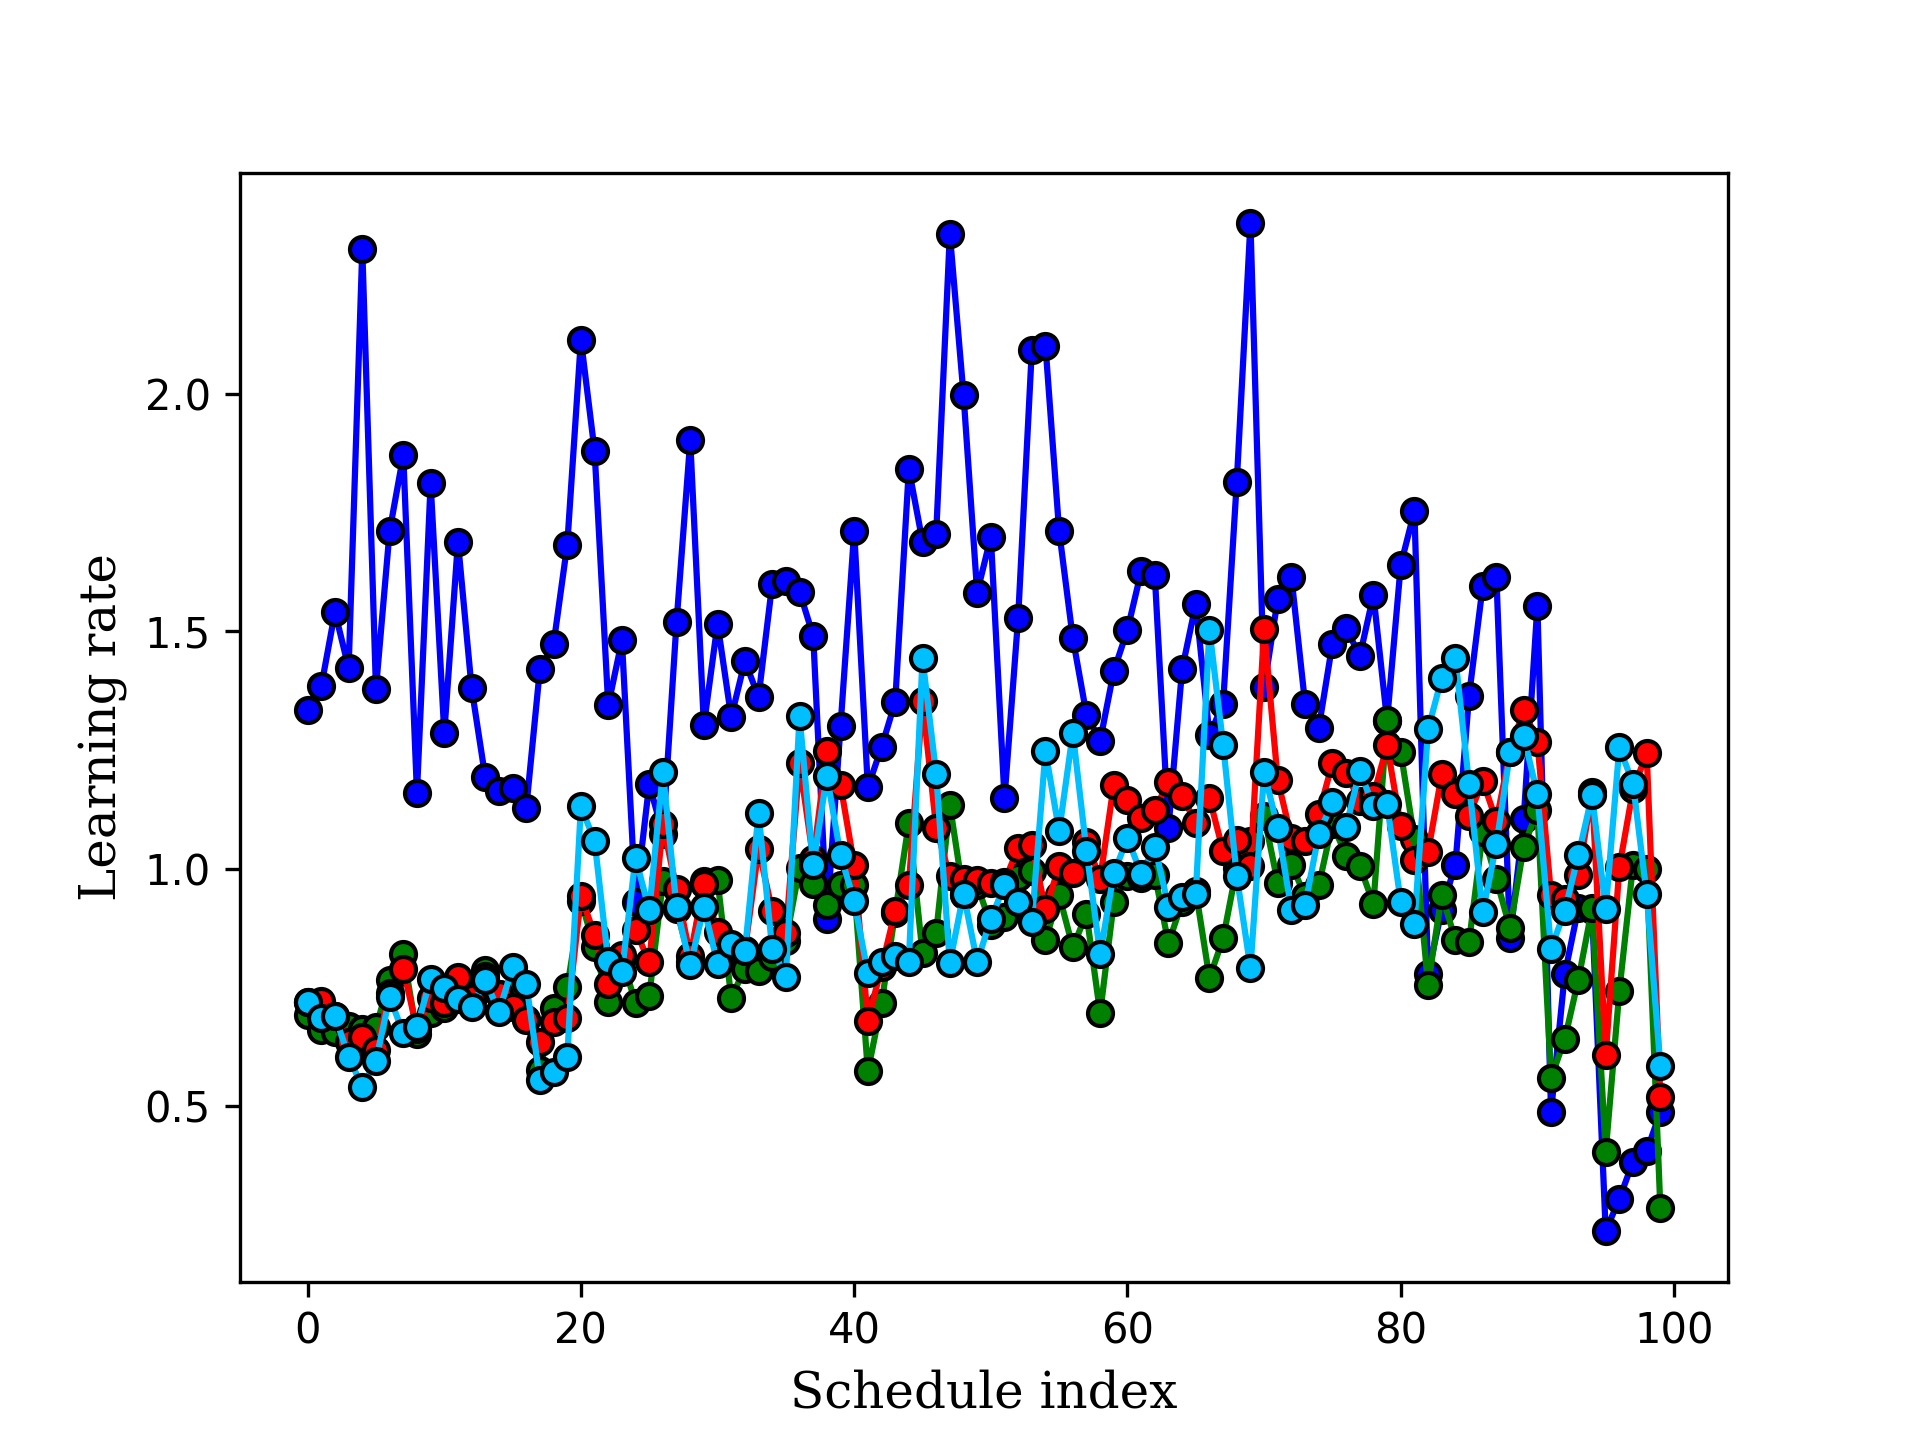
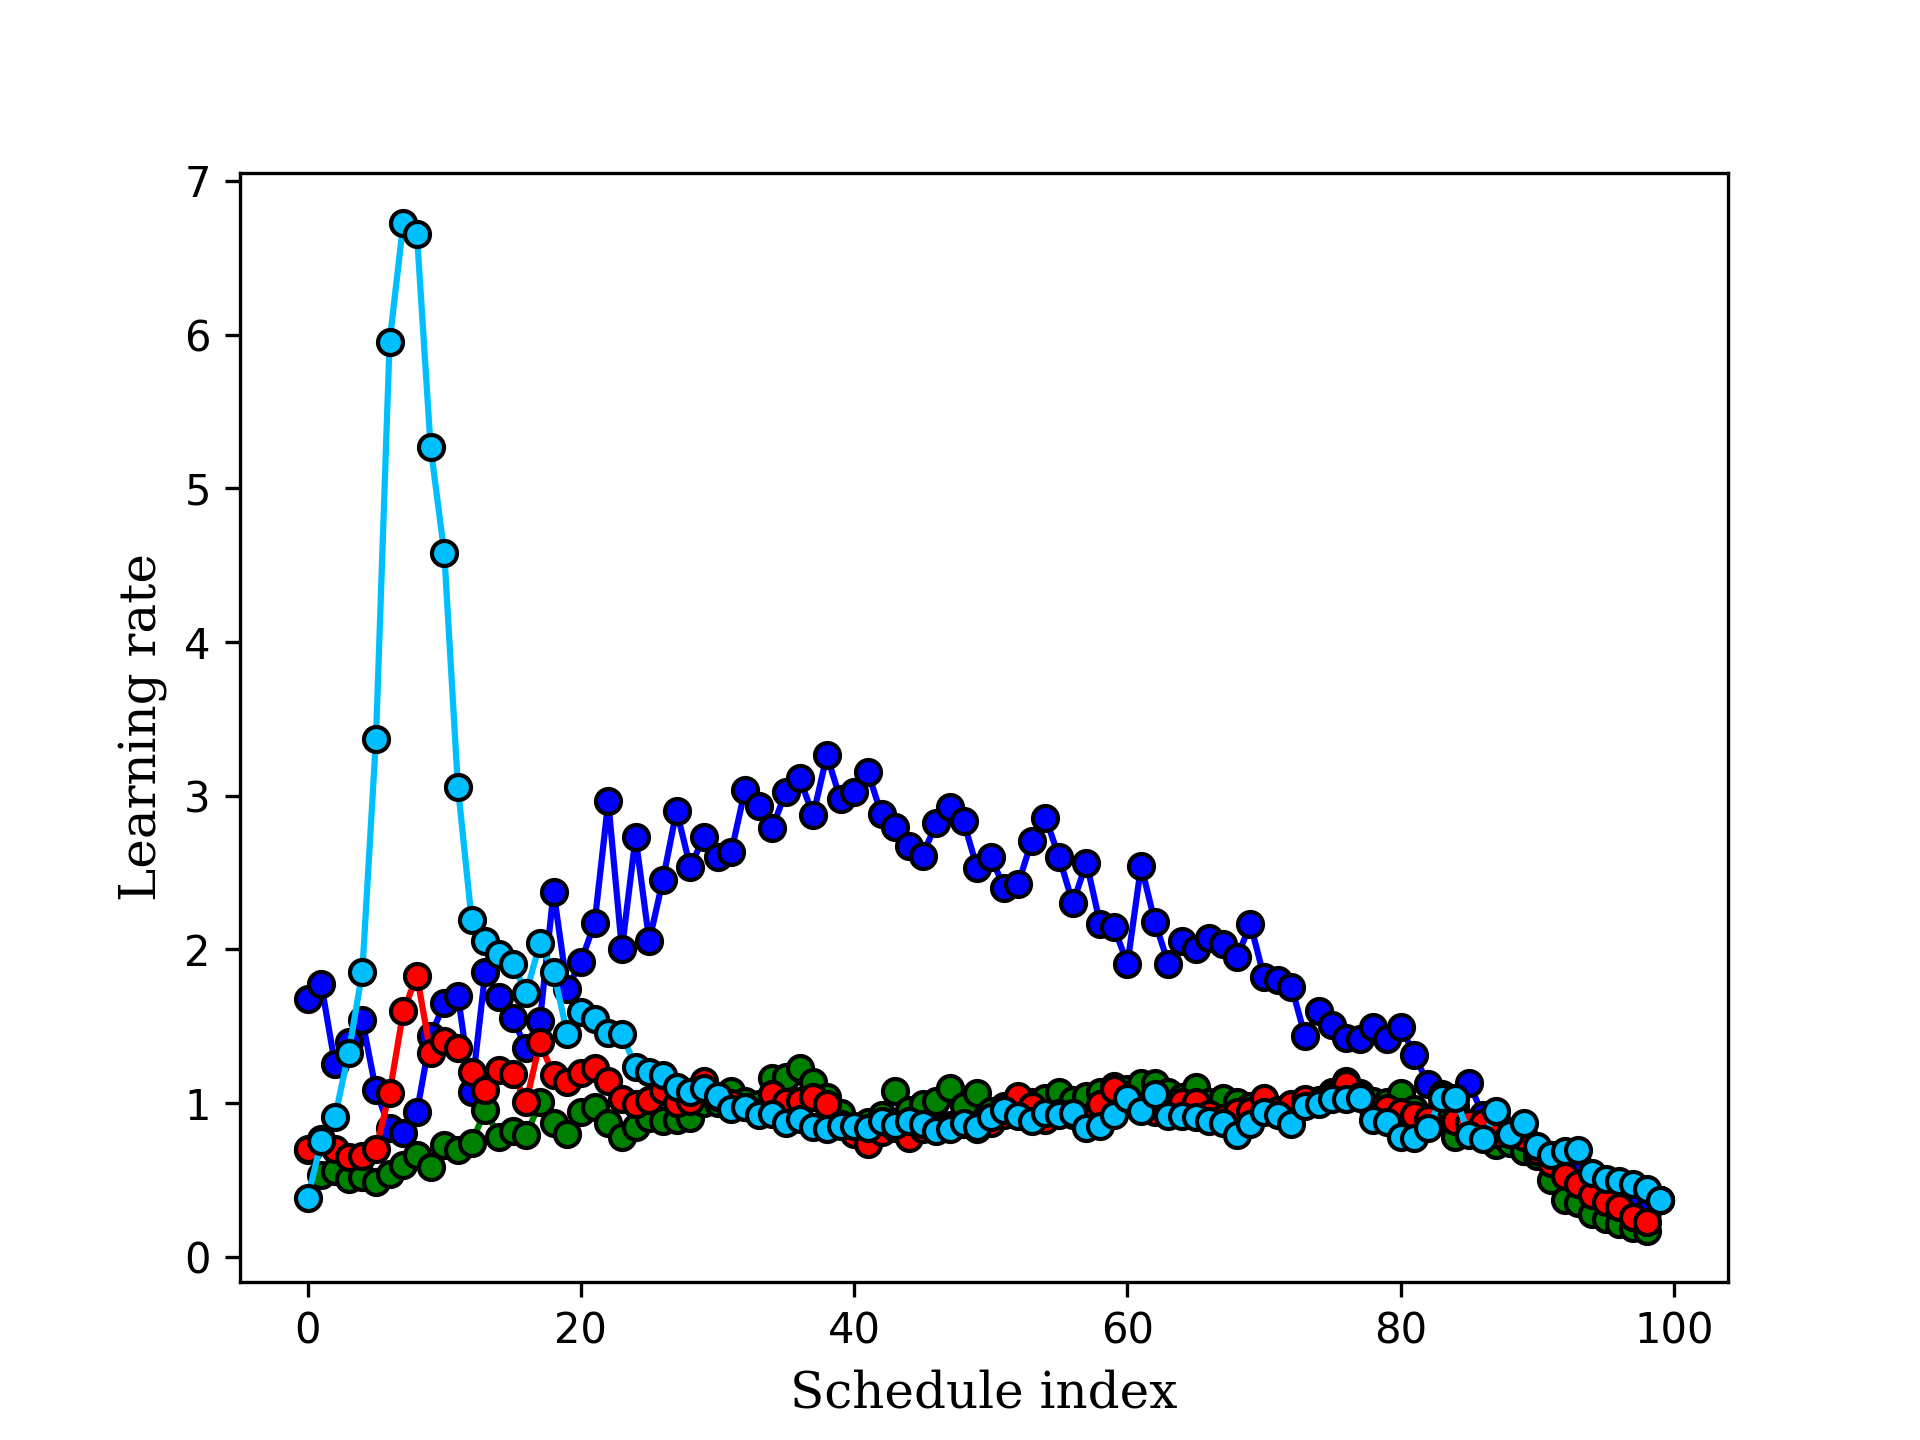
updated checkpointing hypergrad

diff --git a/learning_rate_cp.py b/learning_rate_cp.py
@@ -22,7 +22,7 @@ def d_logit(x):
 
 layer_sizes = [784, 50, 50, 50, 10]
 batch_size = 200
-nSteps = 10
+nSteps = 100
 N_classes = 10
 N_train = 10000
 N_valid = 10000
@@ -36,7 +36,7 @@ init_log_param_scale = -3.0
 
 # ----- Superparameters -----
 meta_alpha = 0.04
-N_meta_iter = 5
+N_meta_iter = 50
 
 seed = 0
 train_data, valid_data, tests_data = load_data_dicts(N_train, N_valid, N_tests)
@@ -85,7 +85,7 @@ def hyper_grad_lr(hyperparam_vec, i_hyper):
     w_0      *= rs.randn(w_0.size)
     v_0       = np.zeros_like(w_0)
     L2_reg    = fill_parser(parser, np.exp(fixed_hyperparams['log_L2_reg']))
-    
+
     def indexed_loss_fun(w, i_iter):
         rs = RandomState((seed, i_hyper, i_iter))  # Deterministic seed needed for backwards pass.
         idxs = rs.randint(N_train, size=batch_size)
@@ -102,52 +102,70 @@ def hyper_grad_lr(hyperparam_vec, i_hyper):
     iters     = list(zip(range(len(alphas)), alphas, gammas))
     L_grad    = grad(loss)
     f_grad    = grad(f)
-    
+
     w, v      = np.copy(w_0), np.copy(v_0)
 
     def forward(check:int, nfrom: int, nto: int):
 
-        w = stack[check]['weights']
-        v = stack[check]['velocity']
-
+        w = np.copy(stack[check]['weights'])
+        v = np.copy(stack[check]['velocity'])
+        #print(f'valore di v che viene caricato dal ckp {check} prima di forward {nfrom} --> {nto-1}')
+        #print(v[0:4])
         for i, alpha, gamma in iters[nfrom:nto]:
-            
+
             g = L_grad(w, i)
             cur_alpha_vect = fill_parser(parser, alpha)
             cur_gamma_vect = fill_parser(parser, gamma)
-    
+
+
             v *= cur_gamma_vect
             v -= (1 - cur_gamma_vect) * g
             w += cur_alpha_vect * v
+            #print(f'v al forward step {i}')
+            #print(v[0:4])
+
 
         return w, v
 
     def reverse(iteration, w, v, d_w, d_v, d_alpha, d_gamma):
         '''
         This function does only one step of RMD
+        riceve w e v ma non deve invertirli tramite gamma, poi fa un passo di forward
+        per aggiornare v e poterlo mettere in d_alpha 
+        w e v che servono a questa funzione sono quelli che RMD calcola invertendo il gradiente in maniera
+        esatta.
         '''
         proj = lambda w, d, i : np.dot(L_grad(w,i),d)
         hessianvp = grad(proj, 0)
         i, alpha, gamma = iters[iteration]
 
         print(f'backprop step {i}')
+        #print(f'v al backprop step {i}')
+        #print(v[0:4])
+        
+        
         cur_alpha_vect = fill_parser(parser, alpha)
         cur_gamma_vect = fill_parser(parser, gamma)
-        for j, (_, (ixs, _)) in enumerate(parser.idxs_and_shapes.items()):
-            d_alpha[i,j] = np.dot(d_w[ixs], v[ixs])
         
-        #gradient descent reversion
-        w -= cur_alpha_vect * v
         g  = L_grad(w, i)
-        v += (1-cur_gamma_vect)*g
-        v /= cur_gamma_vect
+        v_next = np.copy(v)
+        v_next *= cur_gamma_vect
+        v_next -= (1 - cur_gamma_vect) * g
 
+        #print(f'valore ricostruito di v al tempo {i+1}')
+        #print(v_next[0:4])
+
+        for j, (_, (ixs, _)) in enumerate(parser.idxs_and_shapes.items()):
+            d_alpha[i,j] = np.dot(d_w[ixs], v_next[ixs])
+
+        ##Questi tre passaggi non devono essere fatti e i valori vanno ottenuti tramite checkpoint
+        
         d_v += d_w * cur_alpha_vect
-        
-        
+
+
         for j, (_, (ixs, _)) in enumerate(parser.idxs_and_shapes.items()):
                 d_gamma[i,j] = np.dot(d_v[ixs], v[ixs] + g[ixs])
-        
+
         d_w -= hessianvp(w, (1-cur_gamma_vect)*d_v, i)
         d_v *= cur_gamma_vect
 
@@ -164,6 +182,8 @@ def hyper_grad_lr(hyperparam_vec, i_hyper):
             #print(scheduler.check)
             stack[scheduler.check]['weights']  = np.copy(w)
             stack[scheduler.check]['velocity'] = np.copy(v)
+            
+            #print(v[0:4])
         elif action == ActionType.firsturn:
             print('executing first reverse step')
             wF, vF = forward(scheduler.check, scheduler.oldcapo, nSteps)
@@ -173,20 +193,51 @@ def hyper_grad_lr(hyperparam_vec, i_hyper):
             d_alpha, d_gamma = np.zeros(alphas.shape), np.zeros(gammas.shape)
             d_w = f_grad(wF)
             d_v = np.zeros(d_w.shape)
-            #first step
-            d_w, d_v, d_alpha, d_gamma = reverse(nSteps-1, wF, vF, d_w, d_v, d_alpha, d_gamma)
+            
         elif action == ActionType.restore:
             #print(f'loading state number {scheduler.check}')
-            w, v = stack[scheduler.check]['weights'], stack[scheduler.check]['velocity']
+            w, v = np.copy(stack[scheduler.check]['weights']), np.copy(stack[scheduler.check]['velocity'])
+            #print('valore di v che viene richiamato con restore')
+            #print(v[0:4])
         elif action == ActionType.youturn:
             #print(f' doing reverse step at time {scheduler.fine}')
             d_w, d_v, d_alpha, d_gamma = reverse(scheduler.fine, w, v, d_w, d_v, d_alpha, d_gamma)
         if action == ActionType.terminate:
             break
-    
-    print(w_0)
-    print(stack)
-    assert np.all(w_0 == w)
+
+
+    #while(True):
+    #    action = scheduler.revolve()
+    #    print(action)
+    #    if action == ActionType.advance:
+    #        #print(f'advance the system from {scheduler.oldcapo} to {scheduler.capo}')
+    #        w, v = forward(scheduler.check, scheduler.oldcapo, scheduler.capo)
+    #    elif action == ActionType.takeshot:
+    #        #print('saving current state')
+    #        #print(scheduler.check)
+    #        stack[scheduler.check]['weights']  = np.copy(w)
+    #        stack[scheduler.check]['velocity'] = np.copy(v)
+    #    elif action == ActionType.firsturn:
+    #        print('executing first reverse step')
+    #        wF, vF = forward(scheduler.check, scheduler.oldcapo, nSteps)
+    #        final_loss = f(wF)
+    #        loss_final.append(final_loss)
+    #        #initialise gradient values
+    #        d_alpha, d_gamma = np.zeros(alphas.shape), np.zeros(gammas.shape)
+    #        d_w = f_grad(wF)
+    #        d_v = np.zeros(d_w.shape)
+    #        #first step
+    #        #d_w, d_v, d_alpha, d_gamma = reverse(nSteps-1, wF, vF, d_w, d_v, d_alpha, d_gamma)
+    #    elif action == ActionType.restore:
+    #        #print(f'loading state number {scheduler.check}')
+    #        w, v = stack[scheduler.check]['weights'], stack[scheduler.check]['velocity']
+    #    elif action == ActionType.youturn:
+    #        #print(f' doing reverse step at time {scheduler.fine}')
+    #        d_w, d_v, d_alpha, d_gamma = reverse(scheduler.fine, w, v, d_w, d_v, d_alpha, d_gamma)
+    #    if action == ActionType.terminate:
+    #        break
+
+    #assert np.all(w_0 == w)
     weights_grad = parser.new_vect(w_0 * d_w)
     hypergrads['log_param_scale'] = [np.sum(weights_grad[name])
                                      for name in weights_grad.names]
@@ -197,8 +248,10 @@ def hyper_grad_lr(hyperparam_vec, i_hyper):
 
 
 
+
 final_result = hyper_adam(hyper_grad_lr, hyperparams.vect, N_meta_iter, meta_alpha)
 final_hyper  = hyperparams.new_vect(final_result)
+
 
 learning_path  = '/home/marco/Documenti/Progetto_DL/results_learning_rate/learning_schedule_cp.png'
 
@@ -216,8 +269,6 @@ plt.ylabel('Learning rate', fontdict={'family': 'serif', 'size': 12})
 plt.savefig(learning_path, dpi=300)
 plt.close()
 
-print(final_hyper['log_alphas'])
-
 
 folder_path = '/home/marco/Documenti/Progetto_DL/results_learning_rate'
 meta_learning_curve = os.path.join(folder_path, "meta_learning_cp.png")
@@ -228,98 +279,6 @@ plt.ylabel('loss', fontdict={'family': 'serif', 'size': 12})
 
 plt.savefig(meta_learning_curve, dpi=300)
 plt.close()
-
-
-
-
-
-#def adam_single_iter(hypergrad, hyper, iter, im, iv, step_size=0.1,
-#                      b1 = 0.1, b2 = 0.01, eps = 1e-4, lam=1e-4):
-#    '''
-#    im, iv sono stati inizializzati a 0, a questa funzione vengono
-#    passati gli iper di alpha e di gamma e aggiorna i due iper separatamente
-#    '''
-#
-#    b1t    = 1 - (1-b1)*(lam**iter)
-#    im     = b1t*hypergrad     + (1-b1t)*im   # First  moment estimate
-#    iv     = b2*(hypergrad**2) + (1-b2)*iv    # Second moment estimate
-#    mhat   = im/(1-(1-b1)**(iter+1))          # Bias correction
-#    vhat   = iv/(1-(1-b2)**(iter+1))
-#    hyper -= step_size*mhat/(np.sqrt(vhat) + eps)
-#
-#    return hyper, im, iv
-
-#def adam_single_iter(hypergrad, hyper, iter, im, iv, step_size=0.1, b1 = 0.1, b2 = 0.01, eps = 1e-4, lam=1e-4):
-#    '''
-#    im, iv sono stati inizializzati a 0, a questa funzione vengono
-#    passati gli iper di alpha e di gamma e aggiorna i due iper separatamente
-#    '''
-#    im = (1 - b1) * hypergrad      + b1 * im  # First  moment estimate.
-#    iv = (1 - b2) * (hypergrad**2) + b2 * iv  # Second moment estimate.
-#    mhat = im / (1 - b1 ** (iter + 1))  # Bias correction.
-#    vhat = iv / (1 - b2 ** (iter + 1))
-#    hyper -= step_size*mhat/(np.sqrt(vhat) + eps)
-#
-#    return hyper, im, iv
-#
-##################################################################################################################
-#################         OSSERVAZIONE:                                                ###########################
-#################         CALCOLANDO LA TRAINING LOSS SU TUTTO IL TRAINING SET         ###########################
-#################         RIMANGONO FUORI CIRCA 1300 INDICI OGNI META ITER             ###########################
-##################################################################################################################
-####insieme = set()
-####my_set = set()
-####my_set.update(all_idxs)
-####i_hyper = 4  #provare anche con altri indici
-####for i in range(100):
-####    rs = RandomState((seed, i_hyper, i))
-####    batch = rs.randint(N_train, size=batch_size)
-####    insieme.update(batch)
-####
-####
-####print('confronto insiemi')
-####print(len(my_set)-len(insieme))
-
-
-#imp, ivp   = np.zeros_like(hyperparams['log_param_scale']), np.zeros_like(hyperparams['log_param_scale'])
-#ima, iva   = np.zeros_like(hyperparams['log_alphas']     ), np.zeros_like(hyperparams['log_alphas']     )
-#img, ivg   = np.zeros_like(hyperparams['invlogit_gammas']), np.zeros_like(hyperparams['invlogit_gammas'])
-#loss_final = []
-#for i in range(meta_iter):
-#    print(f'------------------------META ITERATION {i}--------------------------------------')
-#
-#    res = hyper_grad_lr(nSteps, parser, indexed_loss_fun, indexed_loss_fun, hyperparams.vect, i)
-#    if res == 'NAN':
-#        print('NAN da qualche parte')
-#        break
-#    else:
-#        hypergrad_alpha  = np.exp(hyperparams['log_alphas']) * res[2]      #derivate rispetto ad hyper
-#        hypergrad_gamma  = d_logit(hyperparams['invlogit_gammas'])* res[3] #derivate rispetto ad hyper
-#        grad_param_scale = parser.new_vect(res[0])
-#        l = [np.sum(grad_param_scale[name]) for name in parser.names]
-#        hypergrad_param_scale = np.array(l)
-#        loss_final.append(res[4])
-#
-#    #lavori nello spazio logaritmico
-#    hyperparams['invlogit_gammas'], ima, iva = adam_single_iter(hypergrad_gamma, hyperparams['invlogit_gammas'],
-#                                                                 i, img, ivg, step_size= meta_step_size)
-#    hyperparams['log_alphas'],      img, ivg = adam_single_iter(hypergrad_alpha, hyperparams['log_alphas'], 
-#                                                                i, ima, iva, step_size= meta_step_size)
-#    hyperparams['log_param_scale'], imp, ivp = adam_single_iter(hypergrad_param_scale, hyperparams['log_param_scale'], 
-#                                                                i, imp, ivp, step_size= meta_step_size)
-#
-#colors = ['blue', 'green', 'red', 'deepskyblue']
-#index = 0
-#for hyp, name in  zip(hyperparams['log_alphas'].T, parser.names):
-#    if name[0] == 'weights':
-#        plt.plot(np.exp(hyp), marker = 'o', label = name[0], color = colors[index], markeredgecolor='black')
-#        plt.xlabel('Schedule index', fontdict={'family': 'serif', 'size': 12})
-#        plt.ylabel('Learnin rate', fontdict={'family': 'serif', 'size': 12})
-#        print(colors[index])
-#        print(name)
-#        print(np.exp(hyp))
-#        index +=1
-
 
 
 
